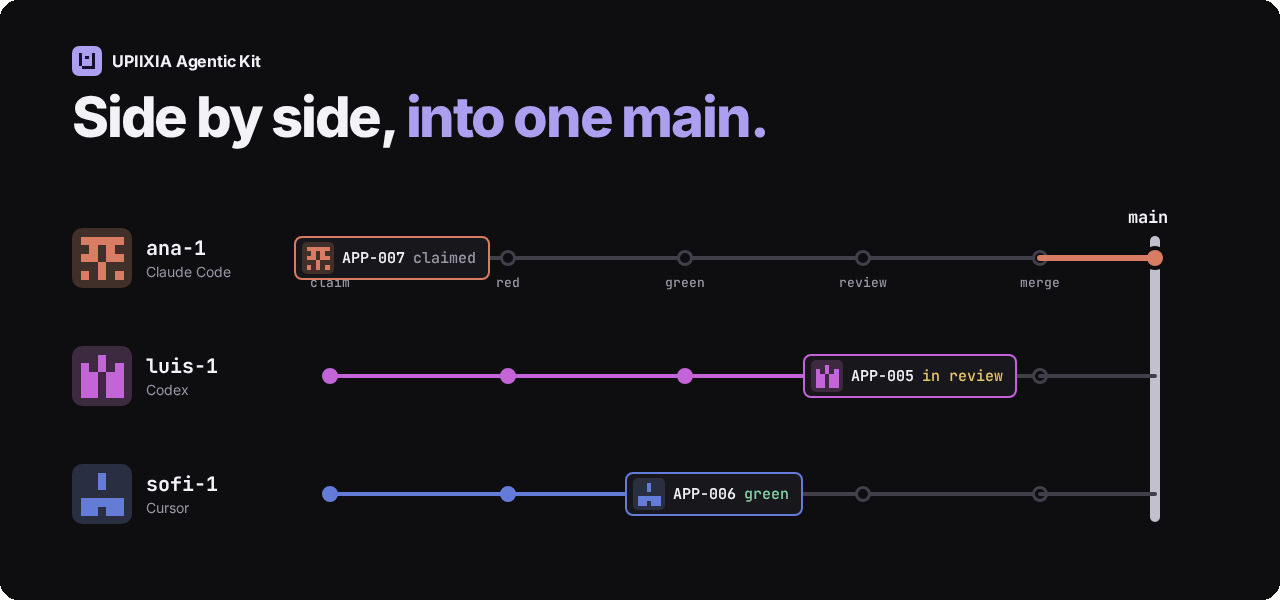
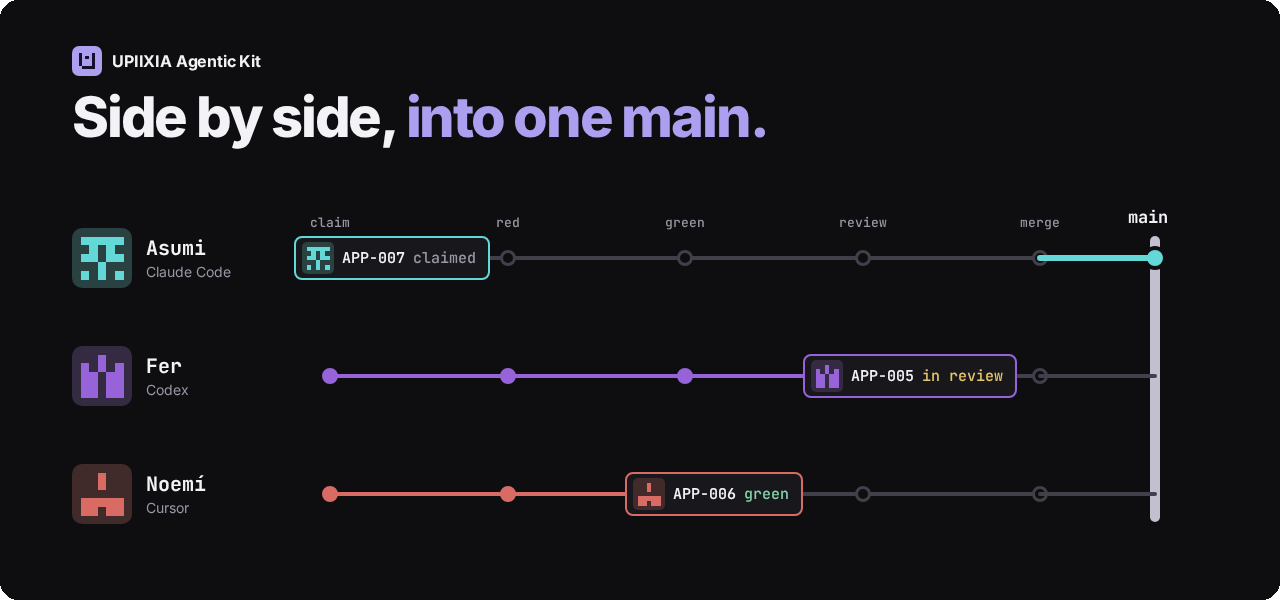
UAK-202: the agents are Asumi, Fer, Noemí and José in the README's art (docs/video drawn with the new names, imported with make_media.py --from); 'The harness for multi-agent teams' under the title and in llms.txt, with what it is not

diff --git a/kit/.uak/tests/test_readme.py b/kit/.uak/tests/test_readme.py
@@ -7,7 +7,8 @@ day: "too short, lifeless, it does not help; as you defined the kit I would not 
 may say where the kit is going, marked as an aim, and says what works today in sentences that are true today.
 
   readme_is_at_most_300_lines               the whole README fits in 300 lines
-  top_has_banner_vision_and_badges          the banner, the title, one line with the vision (marked as the aim) and the
+  top_has_banner_vision_and_badges          the banner, the title, the tagline with what the kit is not, one line with
+                                            the vision (marked as the aim) and the
                                             badges (tests, license, runtime dependencies, coding tools, M8ven)
   first_screen_answers_the_four_questions   then, with nothing else before them: what it is, who it is for, what you
                                             have after ten minutes, the one command to start
@@ -131,6 +132,8 @@ OUTLINE = ["Why it exists", "See it run", "Get started", "How it works", "What i
 # The top of the README, before the four answers.
 BANNER = "docs/media/banner.png"
 TITLE = "# UPIIXIA Agentic Kit"
+TAGLINE = "**The harness for multi-agent teams.**"   # the human's words (2026-11-26), right under the title
+TAGLINE_TRUTH = "no model"   # and in the same line, what it is not: it runs no model, it coordinates your tools
 VISION_MARK = "aim"   # the vision line says it is the aim, not a claim about today
 BADGES = {   # what each badge is, and a piece of its image URL
     "tests": "actions/workflows/test.yml/badge.svg",
@@ -342,8 +345,11 @@ def top_has_banner_vision_and_badges():
     title_at = filled.index(TITLE)
     expect(filled.index(first_image) < title_at, "the banner comes before the title")
     after = filled[title_at + 1:]
+    expect(after and after[0].startswith(TAGLINE) and TAGLINE_TRUTH in after[0].lower(),
+           "right under the title, %s and, in the same line, that it runs %s: %r" % (TAGLINE, TAGLINE_TRUTH, after[:1]))
+    after = after[1:]
     expect(after and VISION_MARK in plain(after[0]).lower(),
-           "right after the title, one line says the vision and marks it as the %s: %r" % (VISION_MARK, after[:1]))
+           "then one line says the vision and marks it as the %s: %r" % (VISION_MARK, after[:1]))
     expect(len(re.findall(r"[.!](\s|$)", plain(after[0]))) <= 3 and len(plain(after[0]).split()) <= 40,
            "the vision is one short line: %r" % after[0])
     block = "\n".join(top)

diff --git a/README.md b/README.md
@@ -2,6 +2,8 @@
 
 # UPIIXIA Agentic Kit
 
+**The harness for multi-agent teams.** It runs no model of its own: it coordinates the coding tools you already use, such as Claude Code, Codex and Cursor.
+
 **The aim:** several people and their coding agents working on one repository at the same time, without stepping on each other. No chaos.
 
 [![tests](https://github.com/JoahanMorales/upiixia-agentic-kit/actions/workflows/test.yml/badge.svg)](https://github.com/JoahanMorales/upiixia-agentic-kit/actions/workflows/test.yml)
